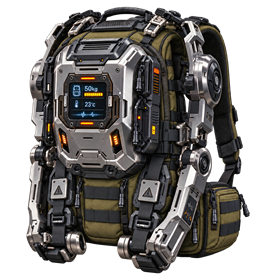
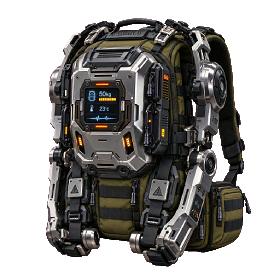
上傳更新背包

diff --git a/app/item-database.ts b/app/item-database.ts
@@ -40,6 +40,7 @@ export type ItemDefinition = {
   usable: boolean;
   backpackCapacityKg?: number;
   artworkStem?: string;
+  artworkInspectSize?: 640 | 1024;
   useMode?: "direct" | "interaction";
   useAction?: ItemUseAction;
   survivalEffects: SurvivalEffects;
@@ -1040,9 +1041,9 @@ export const ITEM_DATABASE: readonly ItemDatabaseSlot[] = [
       inventoryRules: { transferable: true, discardable: true, stackSize: 99 },
     },
   },
-  { slot: 65, item: { id:"T0011", englishName:"basic-backpack", name:"10kg 基礎背包", symbol:"▣", category:"tool", weight:0.5, usable:true, backpackCapacityKg:10, artworkStem:"basic-backpack", description:"輕量織物與加固背帶構成的入門背包。遊戲開始時固定裝在背包裝備格，提供 10kg 負重上限；不佔一般背包格，不能卸下或丟棄。", survivalEffects:{}, inventoryRules:{transferable:true,discardable:true,stackSize:1} } },
-  { slot: 66, item: { id:"T0012", englishName:"survival-backpack", name:"30kg 生存背包", symbol:"▣", category:"tool", weight:0.8, usable:true, backpackCapacityKg:30, artworkStem:"survival-backpack", description:"強化分艙與承重骨架的背包升級材料。需先裝備 10kg 基礎背包；確認升級會消耗此道具，與原背包整併於固定裝備格，將負重上限提升至 30kg。暫不升級則佔一般背包一格、重 0.8kg。", survivalEffects:{}, inventoryRules:{transferable:true,discardable:true,stackSize:1} } },
-  { slot: 67, item: { id:"T0013", englishName:"powered-backpack", name:"50kg 動力背包", symbol:"▣", category:"tool", weight:1, usable:true, backpackCapacityKg:50, artworkStem:"powered-backpack", description:"整合輔助承重框架的背包升級材料。需先裝備 30kg 生存背包；確認升級會消耗此道具，與原背包整併於固定裝備格，將負重上限提升至 50kg。未升級時佔一般背包一格、重 1.0kg。", survivalEffects:{}, inventoryRules:{transferable:true,discardable:true,stackSize:1} } },
+  { slot: 65, item: { id:"T0011", englishName:"basic-backpack", name:"10kg 基礎背包", symbol:"▣", category:"tool", weight:0.5, usable:true, backpackCapacityKg:10, artworkStem:"basic-backpack", artworkInspectSize:1024, description:"輕量織物與加固背帶構成的入門背包。遊戲開始時固定裝在背包裝備格，提供 10kg 負重上限；不佔一般背包格，不能卸下或丟棄。", survivalEffects:{}, inventoryRules:{transferable:true,discardable:true,stackSize:1} } },
+  { slot: 66, item: { id:"T0012", englishName:"survival-backpack", name:"30kg 生存背包", symbol:"▣", category:"tool", weight:0.8, usable:true, backpackCapacityKg:30, artworkStem:"survival-backpack", artworkInspectSize:1024, description:"強化分艙與承重骨架的背包升級材料。需先裝備 10kg 基礎背包；確認升級會消耗此道具，與原背包整併於固定裝備格，將負重上限提升至 30kg。暫不升級則佔一般背包一格、重 0.8kg。", survivalEffects:{}, inventoryRules:{transferable:true,discardable:true,stackSize:1} } },
+  { slot: 67, item: { id:"T0013", englishName:"powered-backpack", name:"50kg 動力背包", symbol:"▣", category:"tool", weight:1, usable:true, backpackCapacityKg:50, artworkStem:"powered-backpack", artworkInspectSize:1024, description:"整合輔助承重框架的背包升級材料。需先裝備 30kg 生存背包；確認升級會消耗此道具，與原背包整併於固定裝備格，將負重上限提升至 50kg。未升級時佔一般背包一格、重 1.0kg。", survivalEffects:{}, inventoryRules:{transferable:true,discardable:true,stackSize:1} } },
   { slot: 68, item: null },
   { slot: 69, item: null },
   { slot: 70, item: null },

diff --git a/app/crafting-workbench.css b/app/crafting-workbench.css
@@ -36,7 +36,26 @@
 .crafting-workbench .inventory-grid .item.is-needed:not(.is-added) img{filter:brightness(1.13) drop-shadow(0 0 8px rgba(109,225,255,.3))}
 .crafting-workbench .inventory-grid .item.is-needed:not(.is-added) .item-name{color:#daf6fa;text-shadow:0 0 7px #8eeaff55}
 .crafting-workbench .inventory-grid .item.is-added,.crafting-workbench .recipe .requirement.ready{--corner:rgba(255,219,144,.55);--cell-edge:linear-gradient(135deg,#fff,#fff2c9 24%,#efcf87 50%,#fff2c9 76%,#fff);box-shadow:inset 0 0 8px #fff0b9a6,inset 0 0 28px #e3b45f66}
-.crafting-workbench .recipe .requirement.ready:after{
+/* Match the mouse surface highlight for each authoritative input owner. */
+.crafting-workbench[data-owner=mouse] .recipe .requirement:hover:not(:disabled),
+.crafting-workbench[data-owner=cursor] .recipe .requirement.cursor-hover:not(:disabled),
+.crafting-workbench[data-owner=directional] .recipe .requirement.nav-focus:not(:disabled){
+  background-color:#263e45;
+}
+/* Empty slots use a bright, thin cyan-white edge without an inset thick outline. */
+.crafting-workbench[data-owner=mouse] .recipe .requirement:not(.ready):not(.is-partial):hover:not(:disabled),
+.crafting-workbench[data-owner=cursor] .recipe .requirement:not(.ready):not(.is-partial).cursor-hover:not(:disabled),
+.crafting-workbench[data-owner=directional] .recipe .requirement:not(.ready):not(.is-partial).nav-focus:not(:disabled){
+  --corner:rgba(116,225,255,.58);
+  --cell-edge:linear-gradient(135deg,#fff 0%,#d9ffff 12%,#76c6df 28%,#385f70 50%,#76c6df 72%,#d9ffff 88%,#fff 100%);
+  background:radial-gradient(ellipse at 0 0,var(--corner),transparent 58%),radial-gradient(ellipse at 100% 100%,var(--corner),transparent 58%),#07131c;
+  box-shadow:none;
+}
+/* Allocated is status; only the active input owner's target gets a thick ring. */
+.crafting-workbench[data-owner=mouse] .recipe .requirement:is(.ready,.is-partial):hover:not(:disabled):after,
+.crafting-workbench[data-owner=cursor] .recipe .requirement:is(.ready,.is-partial).cursor-hover:not(:disabled):after,
+.crafting-workbench[data-owner=directional] .recipe .requirement:is(.ready,.is-partial).nav-focus:not(:disabled):after{
+  background:linear-gradient(135deg,#fff0bd,#e6bf6c 24%,#967035 50%,#e6bf6c 76%,#fff0bd);
   clip-path:polygon(evenodd,8px 0,calc(100% - 8px) 0,100% 8px,100% calc(100% - 8px),calc(100% - 8px) 100%,8px 100%,0 calc(100% - 8px),0 8px,8px 0,8.828px 2px,2px 8.828px,2px calc(100% - 8.828px),8.828px calc(100% - 2px),calc(100% - 8.828px) calc(100% - 2px),calc(100% - 2px) calc(100% - 8.828px),calc(100% - 2px) 8.828px,calc(100% - 8.828px) 2px,8.828px 2px,8px 0);
 }
 .crafting-workbench #craft-auto-fill{font-size:12px;white-space:nowrap;padding:7px 9px}

diff --git a/app/crafting-workbench.tsx b/app/crafting-workbench.tsx
@@ -24,7 +24,7 @@ type Props = {
  onCraft:(recipeId:string,quantity?:number)=>{ok:boolean;reason?:string};
 };
 const aliases:Record<string,string>={"empty-test-tube":"空試管瓶","lantern":"螢光棒","toughened-vine-bark":"韌化藤皮","luminescent-sac":"螢光包囊","heat-fused-ceramic-shard":"熱熔陶片"};
-const image=(item:ItemDefinition,large=false)=>assetUrl(`ui/items/${aliases[item.englishName]||item.englishName}-${large?"inspect-640":"icon-280"}.png`);
+const image=(item:ItemDefinition,large=false)=>assetUrl(`ui/items/${aliases[item.englishName]||item.englishName}-${large?`inspect-${item.artworkInspectSize??640}`:"icon-280"}.png`);
 function ItemArt({entry,large=false}:{entry:ItemDefinition;large?:boolean}){
  const [failed,setFailed]=useState(false);
  return failed?<span className="craft-art-fallback" aria-label={entry.name}>{entry.symbol}</span>:<img src={image(entry,large)} alt="" onError={()=>setFailed(true)}/>;

diff --git a/app/movement-lab.tsx b/app/movement-lab.tsx
@@ -2020,11 +2020,12 @@ const INVENTORY_ITEM_ARTWORK_PREVIEWS: Readonly<
 };
 
 function getInventoryItemArtworkPreview(itemId: string) {
+  const definition = ITEM_BY_ID.get(itemId);
   const artworkStem = ITEM_BY_ID.get(itemId)?.artworkStem;
   if (artworkStem) {
     return {
       iconPath: uiAssetUrl(`items/${artworkStem}-icon-280.png`),
-      inspectPath: uiAssetUrl(`items/${artworkStem}-inspect-640.png`),
+      inspectPath: uiAssetUrl(`items/${artworkStem}-inspect-${definition?.artworkInspectSize ?? 640}.png`),
     };
   }
   return INVENTORY_ITEM_ARTWORK_PREVIEWS[itemId];
